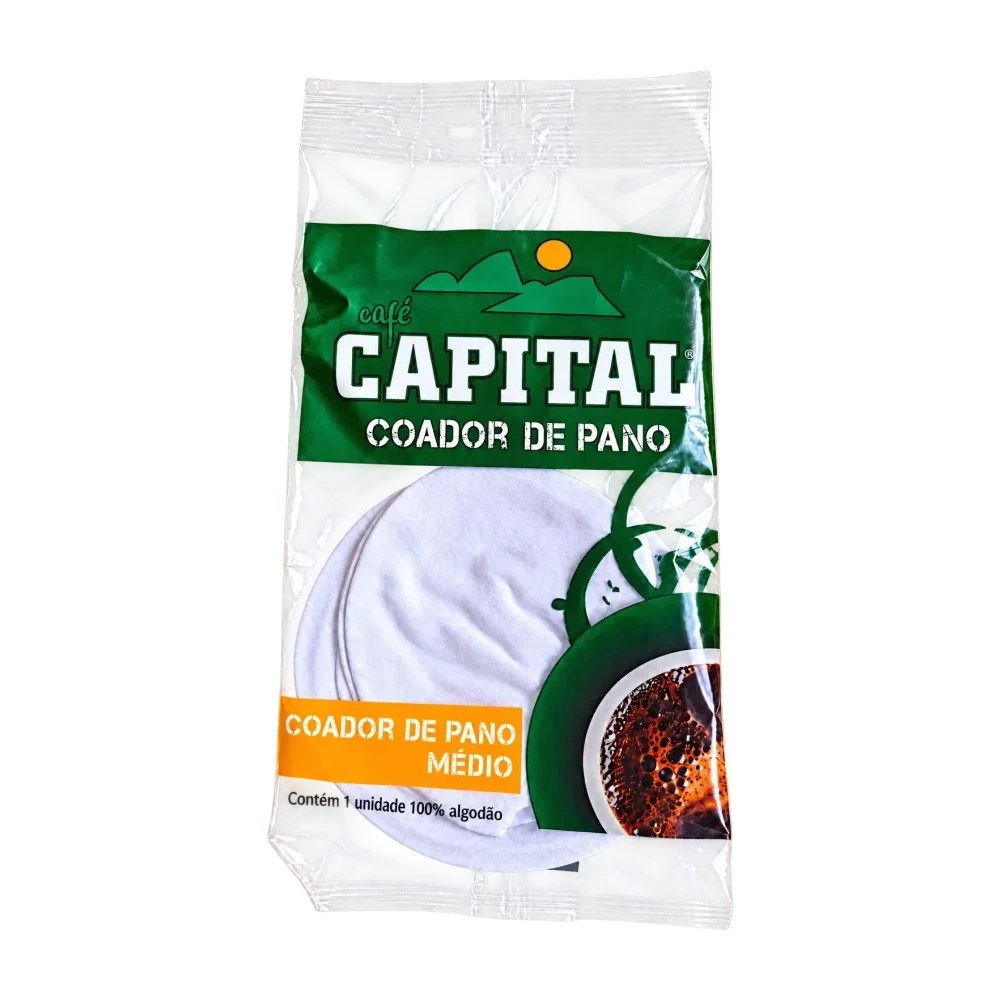
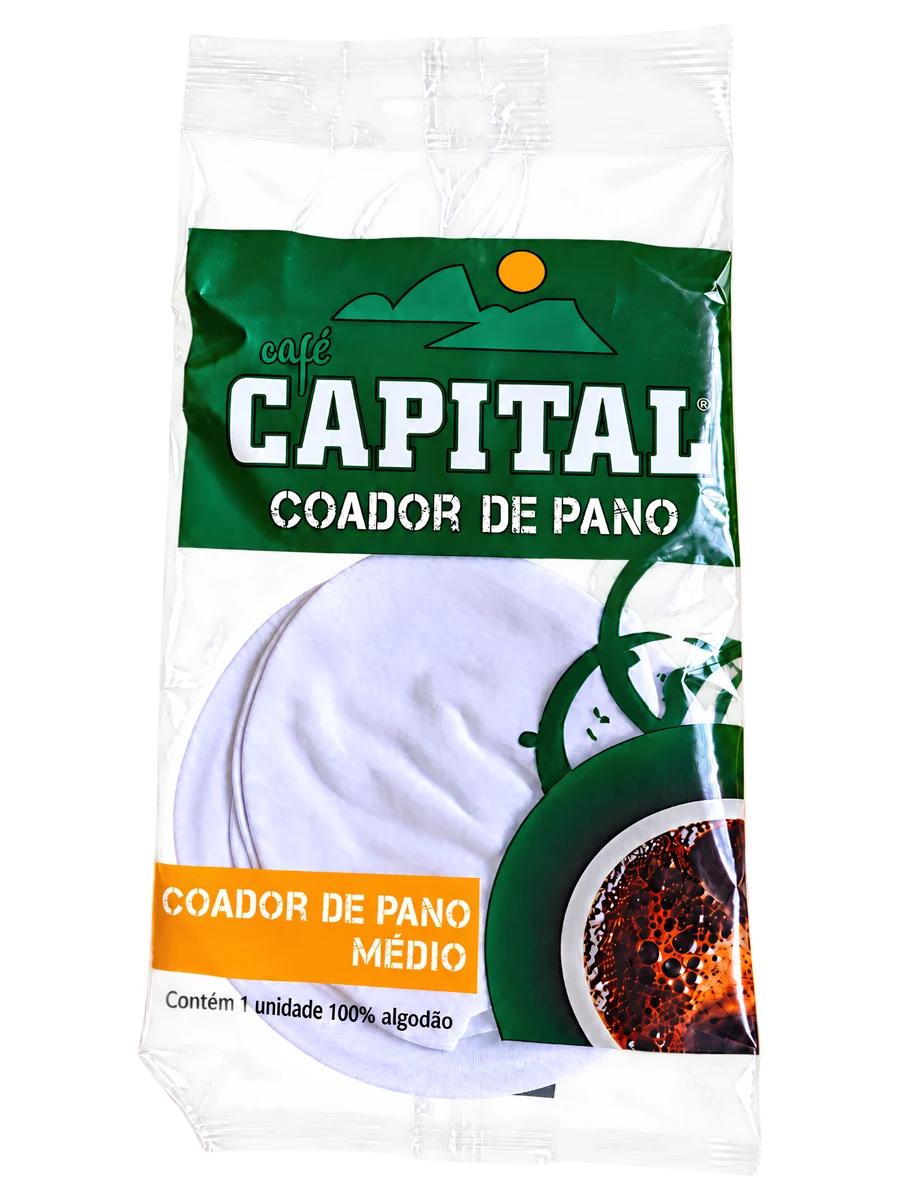
feat(cofico): secao de embalagens visivel antes dos itens; foto do cliente em retrato
- grupo do catalogo aparece com o texto da linha e o convite ao orcamento mesmo sem
  itens; os cards entram conforme a lista for chegando
- padronizar-fotos ganha --altura: pacote alto agora vai em quadro retrato e ocupa o
  card (a foto do cliente aparecia miuda no quadrado)

diff --git a/src/pages/coficobrasil/CoficoEmbalagensPage.tsx b/src/pages/coficobrasil/CoficoEmbalagensPage.tsx
@@ -80,11 +80,17 @@ export default function CoficoEmbalagensPage() {
 
       {/* CATÁLOGO — cada embalagem é uma linha em embalagens.ts. Grupo sem item não aparece,
           para a página nunca mostrar seção vazia enquanto a linha está sendo montada. */}
-      {EMBALAGENS.filter(g => g.itens.length > 0).map(grupo => (
+      {EMBALAGENS.map(grupo => (
         <section key={grupo.id} id={grupo.id} className="border-t border-neutral-200">
           <div className="mx-auto max-w-6xl px-6 py-16">
             <h2 className="text-2xl md:text-3xl font-bold tracking-tight">{grupo.titulo}</h2>
             {grupo.resumo && <p className="mt-3 text-neutral-600 max-w-3xl">{grupo.resumo}</p>}
+            {grupo.itens.length === 0 && (
+              <p className="mt-6 text-sm text-neutral-600 border border-neutral-200 px-5 py-4">
+                Medidas e cores conforme a sua necessidade, a partir de {MINIMO_PADRAO} por item.{' '}
+                <a href={WA_EMBALAGEM} target="_blank" rel="noopener noreferrer" className="font-semibold text-cofico-ink hover:underline">Peça o orçamento</a> com o tamanho do seu pacote.
+              </p>
+            )}
             <div className="mt-10 grid gap-6 sm:grid-cols-2 lg:grid-cols-4">
               {grupo.itens.map(item => (
                 <article key={item.nome} className="border border-neutral-200 p-6 flex flex-col">
@@ -109,7 +115,7 @@ export default function CoficoEmbalagensPage() {
                 </article>
               ))}
             </div>
-            <p className="mt-6 text-sm text-neutral-500">
+            <p className={`text-sm text-neutral-500 ${grupo.itens.length ? 'mt-6' : 'hidden'}`}>
               Pedido mínimo de {MINIMO_PADRAO} por item. Preço, prazo e impressão:{' '}
               <a href={WA_EMBALAGEM} target="_blank" rel="noopener noreferrer" className="font-semibold text-cofico-ink hover:underline">peça o orçamento</a>.
             </p>
